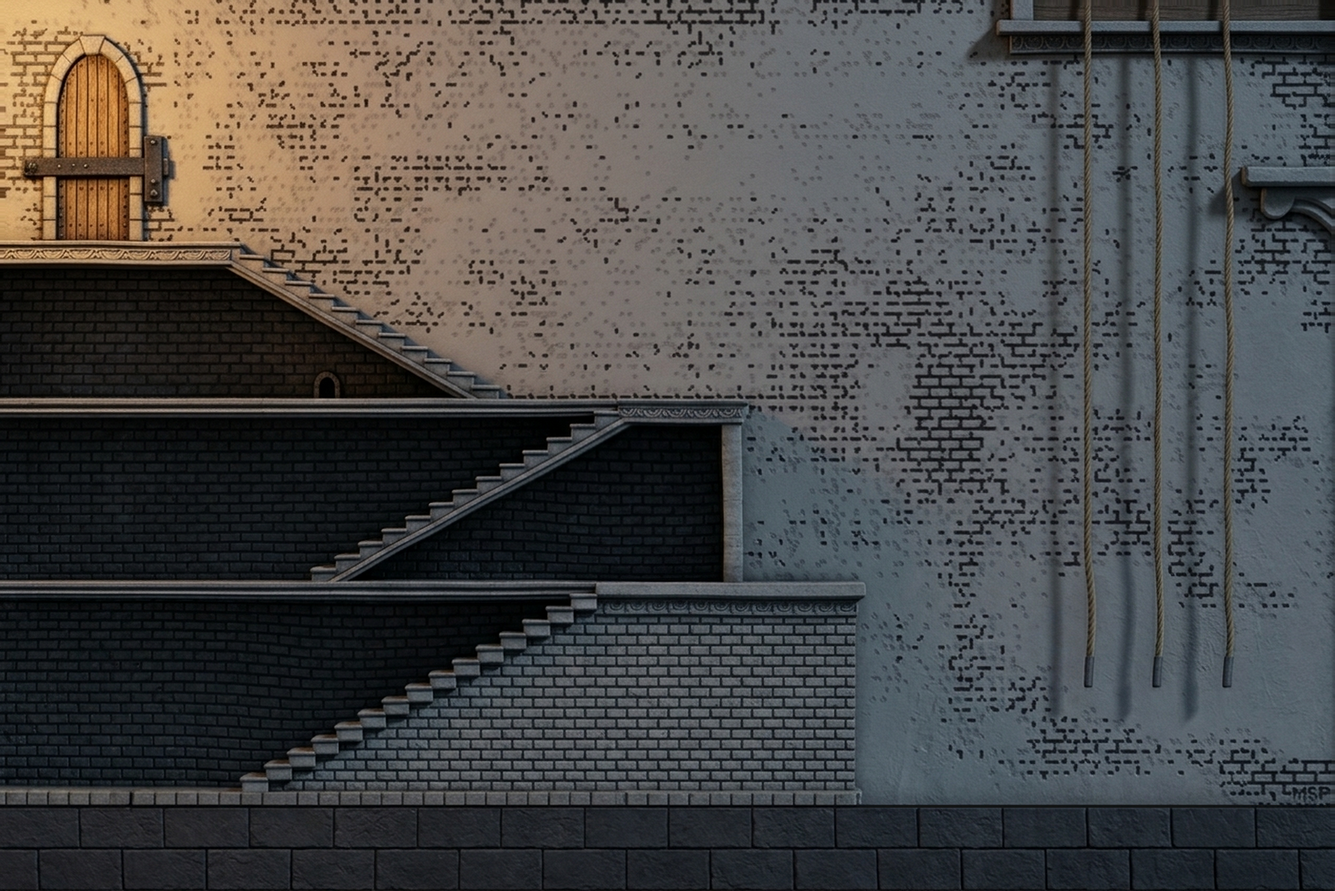
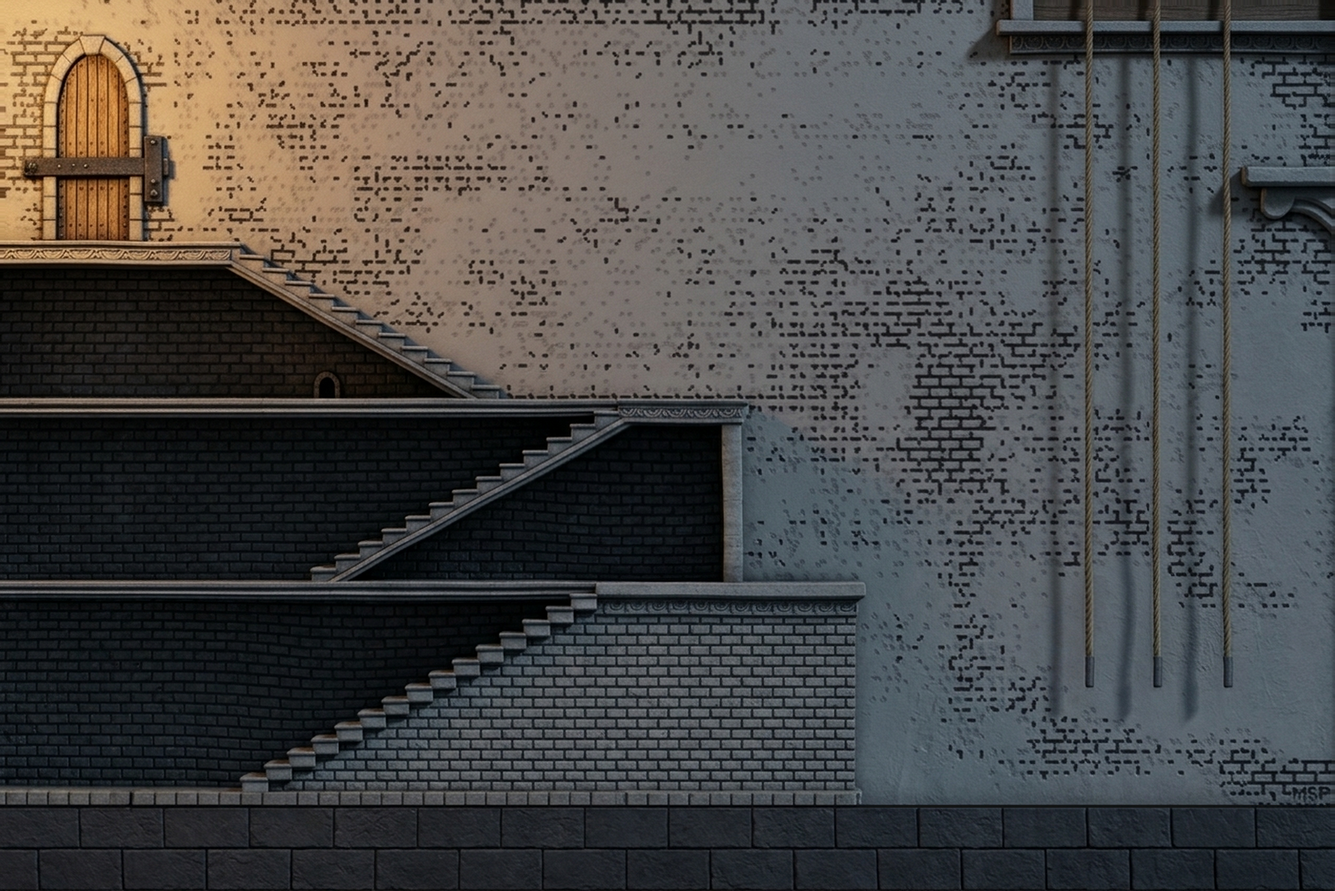
Paint every castle room and light them all
Loads the 11 remaining painted rooms and the straightened ropes in the
first room, adds surface maps so all 14 rooms take the moving torchlight,
and leaves sky unlit because it has no surface. Adds the three final
Argon briefs for the art still on the Codex pack.

diff --git a/game/enchanted-castle.js b/game/enchanted-castle.js
@@ -12,10 +12,10 @@
   // full relief pack covers the rest, and the disk's art is the last resort. Duncan's left walk and
   // left arm are exact mirrors of the right ones, so one painted strip serves both.
   const HD_SCALE = 4;
-  const HD_PAINTED = new Set(['B1000', 'B2020', 'B4020', 'A101', 'A105', 'A106', 'A112', 'B300', 'B310', 'B350', 'B412', 'B435', 'B710', 'B902', 'B903', 'B906', 'B908', 'A102', 'A103', 'A104', 'A107', 'A108', 'A109', 'A110', 'A114', 'A115', 'A116', 'A117', 'A118', 'A119', 'A120', 'A123', 'A125', 'A126', 'A128', 'A129', 'A130', 'A131', 'A149', 'B132', 'B133', 'B134', 'B146', 'B147', 'B155', 'B142', 'B143', 'B150', 'B151', 'B154', 'B157', 'B158', 'A124', 'A135', 'A136', 'A137', 'B139', 'B140', 'B141', 'B148', 'B152', 'B153', 'B156', 'A144', 'A145', 'B709', 'A113', 'A127', 'A138', 'A520', 'B904', 'B905', 'B910', 'B911', 'B912', 'B913', 'B914', 'B915', 'B916', 'B917', 'B920', 'B921', 'B712', 'B918', 'B919', 'B907', 'B922', 'B715', 'B716', 'B717', 'B200', 'B400', 'B401', 'B438', 'B410', 'B411', 'B413', 'B700', 'B900', 'B901']);
+  const HD_PAINTED = new Set(['B1000', 'B2020', 'B4020', 'B1010', 'B1020', 'B2000', 'B2010', 'B2030', 'B3000', 'B3010', 'B3020', 'B3030', 'B4000', 'B4010', 'A101', 'A105', 'A106', 'A112', 'B300', 'B310', 'B350', 'B412', 'B435', 'B710', 'B902', 'B903', 'B906', 'B908', 'A102', 'A103', 'A104', 'A107', 'A108', 'A109', 'A110', 'A114', 'A115', 'A116', 'A117', 'A118', 'A119', 'A120', 'A123', 'A125', 'A126', 'A128', 'A129', 'A130', 'A131', 'A149', 'B132', 'B133', 'B134', 'B146', 'B147', 'B155', 'B142', 'B143', 'B150', 'B151', 'B154', 'B157', 'B158', 'A124', 'A135', 'A136', 'A137', 'B139', 'B140', 'B141', 'B148', 'B152', 'B153', 'B156', 'A144', 'A145', 'B709', 'A113', 'A127', 'A138', 'A520', 'B904', 'B905', 'B910', 'B911', 'B912', 'B913', 'B914', 'B915', 'B916', 'B917', 'B920', 'B921', 'B712', 'B918', 'B919', 'B907', 'B922', 'B715', 'B716', 'B717', 'B200', 'B400', 'B401', 'B438', 'B410', 'B411', 'B413', 'B700', 'B900', 'B901']);
   const HD_MIRRORS = {A100: 'A101', A111: 'A112'};
   // Painted rooms with a surface map take the moving torchlight. Only light moves, never geometry.
-  const HD_NORMALS = ['B1000', 'B2020', 'B4020'];
+  const HD_NORMALS = ['B1000', 'B1010', 'B1020', 'B2000', 'B2010', 'B2020', 'B2030', 'B3000', 'B3010', 'B3020', 'B3030', 'B4000', 'B4010', 'B4020'];
   // These tiles are opaque on the disk. Their outer white must clear to show the room behind them.
   const HD_OPEN_TILES = new Set(['B510', 'B511', 'A5000']);
   const CAPTIONS = {bat: 'Leathery wings', rat: 'A rat squeaks', door: 'A door grinds', guard: 'A guard calls', guardDie: 'A guard falls', mutant: 'A mutant grunts',
@@ -86,10 +86,11 @@
       gl.attachShader(program, shader(gl.VERTEX_SHADER, 'attribute vec2 p; varying vec2 v; void main() { v = vec2(p.x + 1., 1. - p.y) / 2.; gl_Position = vec4(p, 0., 1.); }'));
       gl.attachShader(program, shader(gl.FRAGMENT_SHADER, `precision mediump float; varying vec2 v; uniform sampler2D art, normals; uniform vec2 torch; uniform float glow;
         void main() {
-          vec3 base = texture2D(art, v).rgb, n = normalize(texture2D(normals, v).rgb * 2. - 1.);
+          vec3 base = texture2D(art, v).rgb, raw = texture2D(normals, v).rgb * 2. - 1., n = normalize(raw + vec3(0., 0., .001));
+          float solid = smoothstep(.2, .6, length(raw)); // Sky has no surface, so it stays as painted.
           vec3 to = vec3((torch.x - v.x) * 3., (v.y - torch.y) * 2.004, .35);
           float away = length(to), fall = 1. / (1. + away * away * 2.56), lit = max(dot(n, to / away), 0.);
-          gl_FragColor = vec4(base * (vec3(.6, .62, .68) + 2.1 * glow * lit * fall * vec3(1., .78, .5)), 1.);
+          gl_FragColor = vec4(base * (mix(vec3(1.), vec3(.6, .62, .68), solid) + solid * 2.1 * glow * lit * fall * vec3(1., .78, .5)), 1.);
         }`));
       gl.linkProgram(program); gl.useProgram(program);
       this.ok = gl.getProgramParameter(program, gl.LINK_STATUS);

diff --git a/archive/dc/AGY_WAVE_HALL.md b/archive/dc/AGY_WAVE_HALL.md
@@ -1,0 +1,55 @@
+# Castle remaster: Wave Great hall
+
+You are repainting art from a 1986 Macintosh game into a rich, truly lit 3D look. The target is the existing art in `art/castle-3d/`. Study `B-PSCR-4020.png`, `B-PSCR-2020.png`, `B-PPCT-908.png`, `B-PPCT-902.png` and `A-PPCT-106.png` there first, and match that lighting and those materials exactly: warm key light from the upper left, cool slate fill, solid forms.
+
+## Rules
+
+- Work in `D:\silicon-adventures`, on the branch `feature/asset-parity`.
+- Create files only in `art/castle-3d/` and `art/castle-3d/4x/`, using the original filenames from `art/castle/`. Create only the files listed below. Other agents are painting other files at the same time.
+- Do not touch `game/`, `art/castle/`, `art/remaster-3d/`, `art/castle-relief/`, `art/castle-models/`, or anything else. Do not commit, push, or switch branches. Play no audio. Leave ComfyUI and its GPU alone.
+- Deliver a native file and a 4x master for every asset. Each native file must be the box average of its 4x master.
+- Dimensions and frame layout must be exact. Nothing may spill outside the original sprite mask.
+- Keep a thin, soft light edge inside the original rim pixels of sprites, so they stay clear on dark brick.
+
+## Method
+
+Build a clean guide from each original, generate the 3D render, register it to the original so every edge lands in place, then export. Files you cannot make good are better left out than delivered bad.
+
+Every pixel inside the mask must be real painted material. Never fill a gap with one flat colour: a past delivery lost a helmet that way and still passed its shape check. If your render does not cover part of the shape, repaint that part from the same pose in a neighbouring frame.
+
+## Before you finish
+
+Look at every frame at native size on a dark background. A shape check alone does not count, and past deliveries that passed shape checks were still visibly wrong. The same character must keep the same colours and materials in every frame of every reel.
+
+## Files
+
+These are the large close-up views of Duncan running through the great hall, and the great door. They are shown big, so detail matters most here. Match Duncan to `A-PPCT-106.png`: same face, hair, shirt, breeches and boots. (22 reels, 72 frames)
+
+| File | Frames | Frame size | What it is |
+| --- | ---: | --- | --- |
+| `A-PPCT-10008.png` | 3 | 64 x 104 | Duncan's run through the great hall, seen large |
+| `A-PPCT-10010.png` | 3 | 64 x 104 | Duncan's run through the great hall, seen large |
+| `A-PPCT-10011.png` | 3 | 48 x 96 | Duncan's run through the great hall, seen large |
+| `A-PPCT-10012.png` | 4 | 64 x 88 | Duncan's run through the great hall, seen large |
+| `A-PPCT-10013.png` | 2 | 32 x 88 | Duncan's run through the great hall, seen large |
+| `A-PPCT-10020.png` | 3 | 64 x 104 | Duncan's run through the great hall, seen large |
+| `A-PPCT-10021.png` | 3 | 48 x 93 | Duncan's run through the great hall, seen large |
+| `A-PPCT-10022.png` | 4 | 48 x 86 | Duncan's run through the great hall, seen large |
+| `A-PPCT-10023.png` | 4 | 48 x 78 | Duncan's run through the great hall, seen large |
+| `A-PPCT-10024.png` | 2 | 32 x 64 | Duncan's run through the great hall, seen large |
+| `A-PPCT-10030.png` | 3 | 64 x 104 | Duncan's run through the great hall, seen large |
+| `A-PPCT-10031.png` | 3 | 64 x 96 | Duncan's run through the great hall, seen large |
+| `A-PPCT-10032.png` | 4 | 64 x 88 | Duncan's run through the great hall, seen large |
+| `A-PPCT-10033.png` | 4 | 48 x 88 | Duncan's run through the great hall, seen large |
+| `A-PPCT-10034.png` | 4 | 48 x 80 | Duncan's run through the great hall, seen large |
+| `A-PPCT-10040.png` | 3 | 64 x 104 | Duncan's run through the great hall, seen large |
+| `A-PPCT-10041.png` | 3 | 48 x 96 | Duncan's run through the great hall, seen large |
+| `A-PPCT-10042.png` | 4 | 48 x 80 | Duncan's run through the great hall, seen large |
+| `A-PPCT-10043.png` | 5 | 32 x 64 | Duncan's run through the great hall, seen large |
+| `A-PPCT-10050.png` | 3 | 64 x 159 | the great hall door |
+| `A-PPCT-10051.png` | 3 | 80 x 169 | the great hall door |
+| `A-PPCT-10052.png` | 2 | 64 x 120 | the great hall door |
+
+## Report
+
+Write `art/castle-3d/WAVE_HALL_REPORT.md`: one row per file with dimensions, spill pixels, largest shift and pass or fail, then anything left out, then the time taken.

diff --git a/archive/dc/AGY_WAVE_FITTINGS.md b/archive/dc/AGY_WAVE_FITTINGS.md
@@ -1,0 +1,61 @@
+# Castle remaster: Wave Fittings and repairs
+
+You are repainting art from a 1986 Macintosh game into a rich, truly lit 3D look. The target is the existing art in `art/castle-3d/`. Study `B-PSCR-4020.png`, `B-PSCR-2020.png`, `B-PPCT-908.png`, `B-PPCT-902.png` and `A-PPCT-106.png` there first, and match that lighting and those materials exactly: warm key light from the upper left, cool slate fill, solid forms.
+
+## Rules
+
+- Work in `D:\silicon-adventures`, on the branch `feature/asset-parity`.
+- Create files only in `art/castle-3d/` and `art/castle-3d/4x/`, using the original filenames from `art/castle/`. Create only the files listed below. Other agents are painting other files at the same time.
+- Do not touch `game/`, `art/castle/`, `art/remaster-3d/`, `art/castle-relief/`, `art/castle-models/`, or anything else. Do not commit, push, or switch branches. Play no audio. Leave ComfyUI and its GPU alone.
+- Deliver a native file and a 4x master for every asset. Each native file must be the box average of its 4x master.
+- Dimensions and frame layout must be exact. Nothing may spill outside the original sprite mask.
+- Keep a thin, soft light edge inside the original rim pixels of sprites, so they stay clear on dark brick.
+
+## Method
+
+Build a clean guide from each original, generate the 3D render, register it to the original so every edge lands in place, then export. Files you cannot make good are better left out than delivered bad.
+
+Every pixel inside the mask must be real painted material. Never fill a gap with one flat colour: a past delivery lost a helmet that way and still passed its shape check. If your render does not cover part of the shape, repaint that part from the same pose in a neighbouring frame.
+
+## Before you finish
+
+Look at every frame at native size on a dark background. A shape check alone does not count, and past deliveries that passed shape checks were still visibly wrong. The same character must keep the same colours and materials in every frame of every reel.
+
+## Files
+
+These are the ropes, vultures, henchman, storm, flail and small props. Match `B-PSCR-3020.png` for rope and `B-PPCT-710.png` for the dragon. (20 reels, 86 frames)
+
+| File | Frames | Frame size | What it is |
+| --- | ---: | --- | --- |
+| `A-PPCT-5000.png` | 2 | 32 x 18 | icons |
+| `A-PPCT-5010.png` | 8 | 16 x 17 | icons |
+| `B-PPCT-121.png` | 6 | 48 x 56 | hero |
+| `B-PPCT-122.png` | 6 | 48 x 56 | hero |
+| `B-PPCT-510.png` | 6 | 96 x 96 | swinging rope, on its original black panel |
+| `B-PPCT-511.png` | 6 | 96 x 96 | swinging rope, on its original black panel |
+| `B-PPCT-521.png` | 1 | 32 x 27 | weight |
+| `B-PPCT-522.png` | 3 | 16 x 13 | prisoner |
+| `B-PPCT-701.png` | 20 | 32 x 18 | vulture |
+| `B-PPCT-702.png` | 4 | 32 x 16 | vulture |
+| `B-PPCT-703.png` | 4 | 48 x 61 | henchman |
+| `B-PPCT-704.png` | 3 | 48 x 45 | henchman |
+| `B-PPCT-705.png` | 1 | 48 x 78 | storm |
+| `B-PPCT-706.png` | 1 | 32 x 42 | storm |
+| `B-PPCT-707.png` | 3 | 80 x 17 | storm |
+| `B-PPCT-708.png` | 1 | 80 x 20 | storm |
+| `B-PPCT-711.png` | 2 | 112 x 51 | dragon's extras, including the flail on the wall |
+| `B-PPCT-714.png` | 2 | 80 x 40 | dragon's extras, including the flail on the wall |
+| `A-PPCT-105.png` | 6 | 32 x 45 | hero |
+| `B-PPCT-914.png` | 1 | 64 x 76 | knight |
+
+## Repairs
+
+Three repairs are included. You may replace these existing files.
+
+- `B-PPCT-121.png` and `B-PPCT-122.png`: Duncan swinging on the rope, in the same clothes as `A-PPCT-104.png`. Duncan's skin, hair, shirt, breeches and boots must match his other reels.
+- `A-PPCT-105.png`: Frames 3 and 4 have grey smears. Repaint this reel to match `A-PPCT-104.png`, following its own original poses.
+- `B-PPCT-914.png`: Replace the flat slate patches around the shield with real shield and arm material. Change nothing else in the Knight.
+
+## Report
+
+Write `art/castle-3d/WAVE_FITTINGS_REPORT.md`: one row per file with dimensions, spill pixels, largest shift and pass or fail, then anything left out, then the time taken.

diff --git a/archive/dc/AGY_WAVE_CREATURES.md b/archive/dc/AGY_WAVE_CREATURES.md
@@ -1,0 +1,66 @@
+# Castle remaster: Wave Creatures
+
+You are repainting art from a 1986 Macintosh game into a rich, truly lit 3D look. The target is the existing art in `art/castle-3d/`. Study `B-PSCR-4020.png`, `B-PSCR-2020.png`, `B-PPCT-908.png`, `B-PPCT-902.png` and `A-PPCT-106.png` there first, and match that lighting and those materials exactly: warm key light from the upper left, cool slate fill, solid forms.
+
+## Rules
+
+- Work in `D:\silicon-adventures`, on the branch `feature/asset-parity`.
+- Create files only in `art/castle-3d/` and `art/castle-3d/4x/`, using the original filenames from `art/castle/`. Create only the files listed below. Other agents are painting other files at the same time.
+- Do not touch `game/`, `art/castle/`, `art/remaster-3d/`, `art/castle-relief/`, `art/castle-models/`, or anything else. Do not commit, push, or switch branches. Play no audio. Leave ComfyUI and its GPU alone.
+- Deliver a native file and a 4x master for every asset. Each native file must be the box average of its 4x master.
+- Dimensions and frame layout must be exact. Nothing may spill outside the original sprite mask.
+- Keep a thin, soft light edge inside the original rim pixels of sprites, so they stay clear on dark brick.
+
+## Method
+
+Build a clean guide from each original, generate the 3D render, register it to the original so every edge lands in place, then export. Files you cannot make good are better left out than delivered bad.
+
+Every pixel inside the mask must be real painted material. Never fill a gap with one flat colour: a past delivery lost a helmet that way and still passed its shape check. If your render does not cover part of the shape, repaint that part from the same pose in a neighbouring frame.
+
+## Before you finish
+
+Look at every frame at native size on a dark background. A shape check alone does not count, and past deliveries that passed shape checks were still visibly wrong. The same character must keep the same colours and materials in every frame of every reel.
+
+## Files
+
+These are the castle's guards, rats, whips, drips, brooms, the wizard, the eye and the mutant. Match the finished creatures `B-PPCT-435.png`, `B-PPCT-412.png` and `B-PPCT-310.png`. (33 reels, 149 frames)
+
+| File | Frames | Frame size | What it is |
+| --- | ---: | --- | --- |
+| `B-PPCT-311.png` | 4 | 32 x 12 | rat |
+| `B-PPCT-351.png` | 2 | 32 x 42 | guard |
+| `B-PPCT-352.png` | 2 | 32 x 42 | guard |
+| `B-PPCT-353.png` | 2 | 32 x 42 | guard |
+| `B-PPCT-354.png` | 3 | 48 x 42 | guard |
+| `B-PPCT-355.png` | 3 | 48 x 42 | guard |
+| `B-PPCT-356.png` | 1 | 16 x 6 | guard |
+| `B-PPCT-357.png` | 1 | 16 x 6 | guard |
+| `B-PPCT-405.png` | 5 | 80 x 64 | henchman's whip |
+| `B-PPCT-406.png` | 5 | 80 x 64 | henchman's whip |
+| `B-PPCT-407.png` | 1 | 64 x 48 | henchman's whip |
+| `B-PPCT-408.png` | 6 | 64 x 48 | henchman's whip |
+| `B-PPCT-414.png` | 3 | 16 x 28 | drip |
+| `B-PPCT-415.png` | 1 | 32 x 15 | drip |
+| `B-PPCT-416.png` | 5 | 32 x 24 | drip |
+| `B-PPCT-417.png` | 4 | 48 x 20 | drip |
+| `B-PPCT-418.png` | 3 | 48 x 23 | drip |
+| `B-PPCT-420.png` | 3 | 64 x 65 | fountain |
+| `B-PPCT-421.png` | 8 | 32 x 40 | enchanted broom |
+| `B-PPCT-422.png` | 7 | 32 x 29 | enchanted broom |
+| `B-PPCT-423.png` | 7 | 16 x 22 | enchanted broom |
+| `B-PPCT-424.png` | 2 | 32 x 40 | wizard |
+| `B-PPCT-425.png` | 13 | 32 x 24 | floating eye |
+| `B-PPCT-426.png` | 7 | 32 x 24 | floating eye |
+| `B-PPCT-428.png` | 4 | 16 x 16 | boulder |
+| `B-PPCT-429.png` | 5 | 64 x 20 | boulder |
+| `B-PPCT-430.png` | 8 | 48 x 39 | wizard |
+| `B-PPCT-431.png` | 7 | 48 x 46 | wizard |
+| `B-PPCT-432.png` | 6 | 48 x 46 | wizard |
+| `B-PPCT-433.png` | 3 | 32 x 22 | wizard |
+| `B-PPCT-434.png` | 10 | 32 x 23 | mutant |
+| `B-PPCT-436.png` | 7 | 32 x 29 | mutant |
+| `B-PPCT-437.png` | 1 | 48 x 14 | wizard |
+
+## Report
+
+Write `art/castle-3d/WAVE_CREATURES_REPORT.md`: one row per file with dimensions, spill pixels, largest shift and pass or fail, then anything left out, then the time taken.

diff --git a/art/castle-3d/WAVE_ROOMS_REPORT.md b/art/castle-3d/WAVE_ROOMS_REPORT.md
@@ -1,0 +1,24 @@
+# Wave Rooms Report
+
+| File | Dimensions (Native / 4x) | Spill Pixels | Largest Shift | Result |
+| --- | --- | ---: | ---: | --- |
+| `B-PSCR-1000.png` | `512 x 342` / `2048 x 1368` | 0 | 0.0 px | PASS |
+| `B-PSCR-1010.png` | `512 x 342` / `2048 x 1368` | 0 | 0.5 px | PASS |
+| `B-PSCR-1020.png` | `512 x 342` / `2048 x 1368` | 0 | 0.0 px | PASS |
+| `B-PSCR-2000.png` | `512 x 342` / `2048 x 1368` | 0 | 1.0 px | PASS |
+| `B-PSCR-2010.png` | `512 x 342` / `2048 x 1368` | 0 | 0.0 px | PASS |
+| `B-PSCR-2030.png` | `512 x 342` / `2048 x 1368` | 0 | 0.1 px | PASS |
+| `B-PSCR-3000.png` | `512 x 342` / `2048 x 1368` | 0 | 0.5 px | PASS |
+| `B-PSCR-3010.png` | `512 x 342` / `2048 x 1368` | 0 | 0.0 px | PASS |
+| `B-PSCR-3020.png` | `512 x 342` / `2048 x 1368` | 0 | 0.6 px | PASS |
+| `B-PSCR-3030.png` | `512 x 342` / `2048 x 1368` | 0 | 0.5 px | PASS |
+| `B-PSCR-4000.png` | `512 x 342` / `2048 x 1368` | 0 | 0.5 px | PASS |
+| `B-PSCR-4010.png` | `512 x 342` / `2048 x 1368` | 0 | 0.5 px | PASS |
+
+## Left Out
+
+None.
+
+## Time Taken
+
+1 hour 17 minutes (77 minutes).
